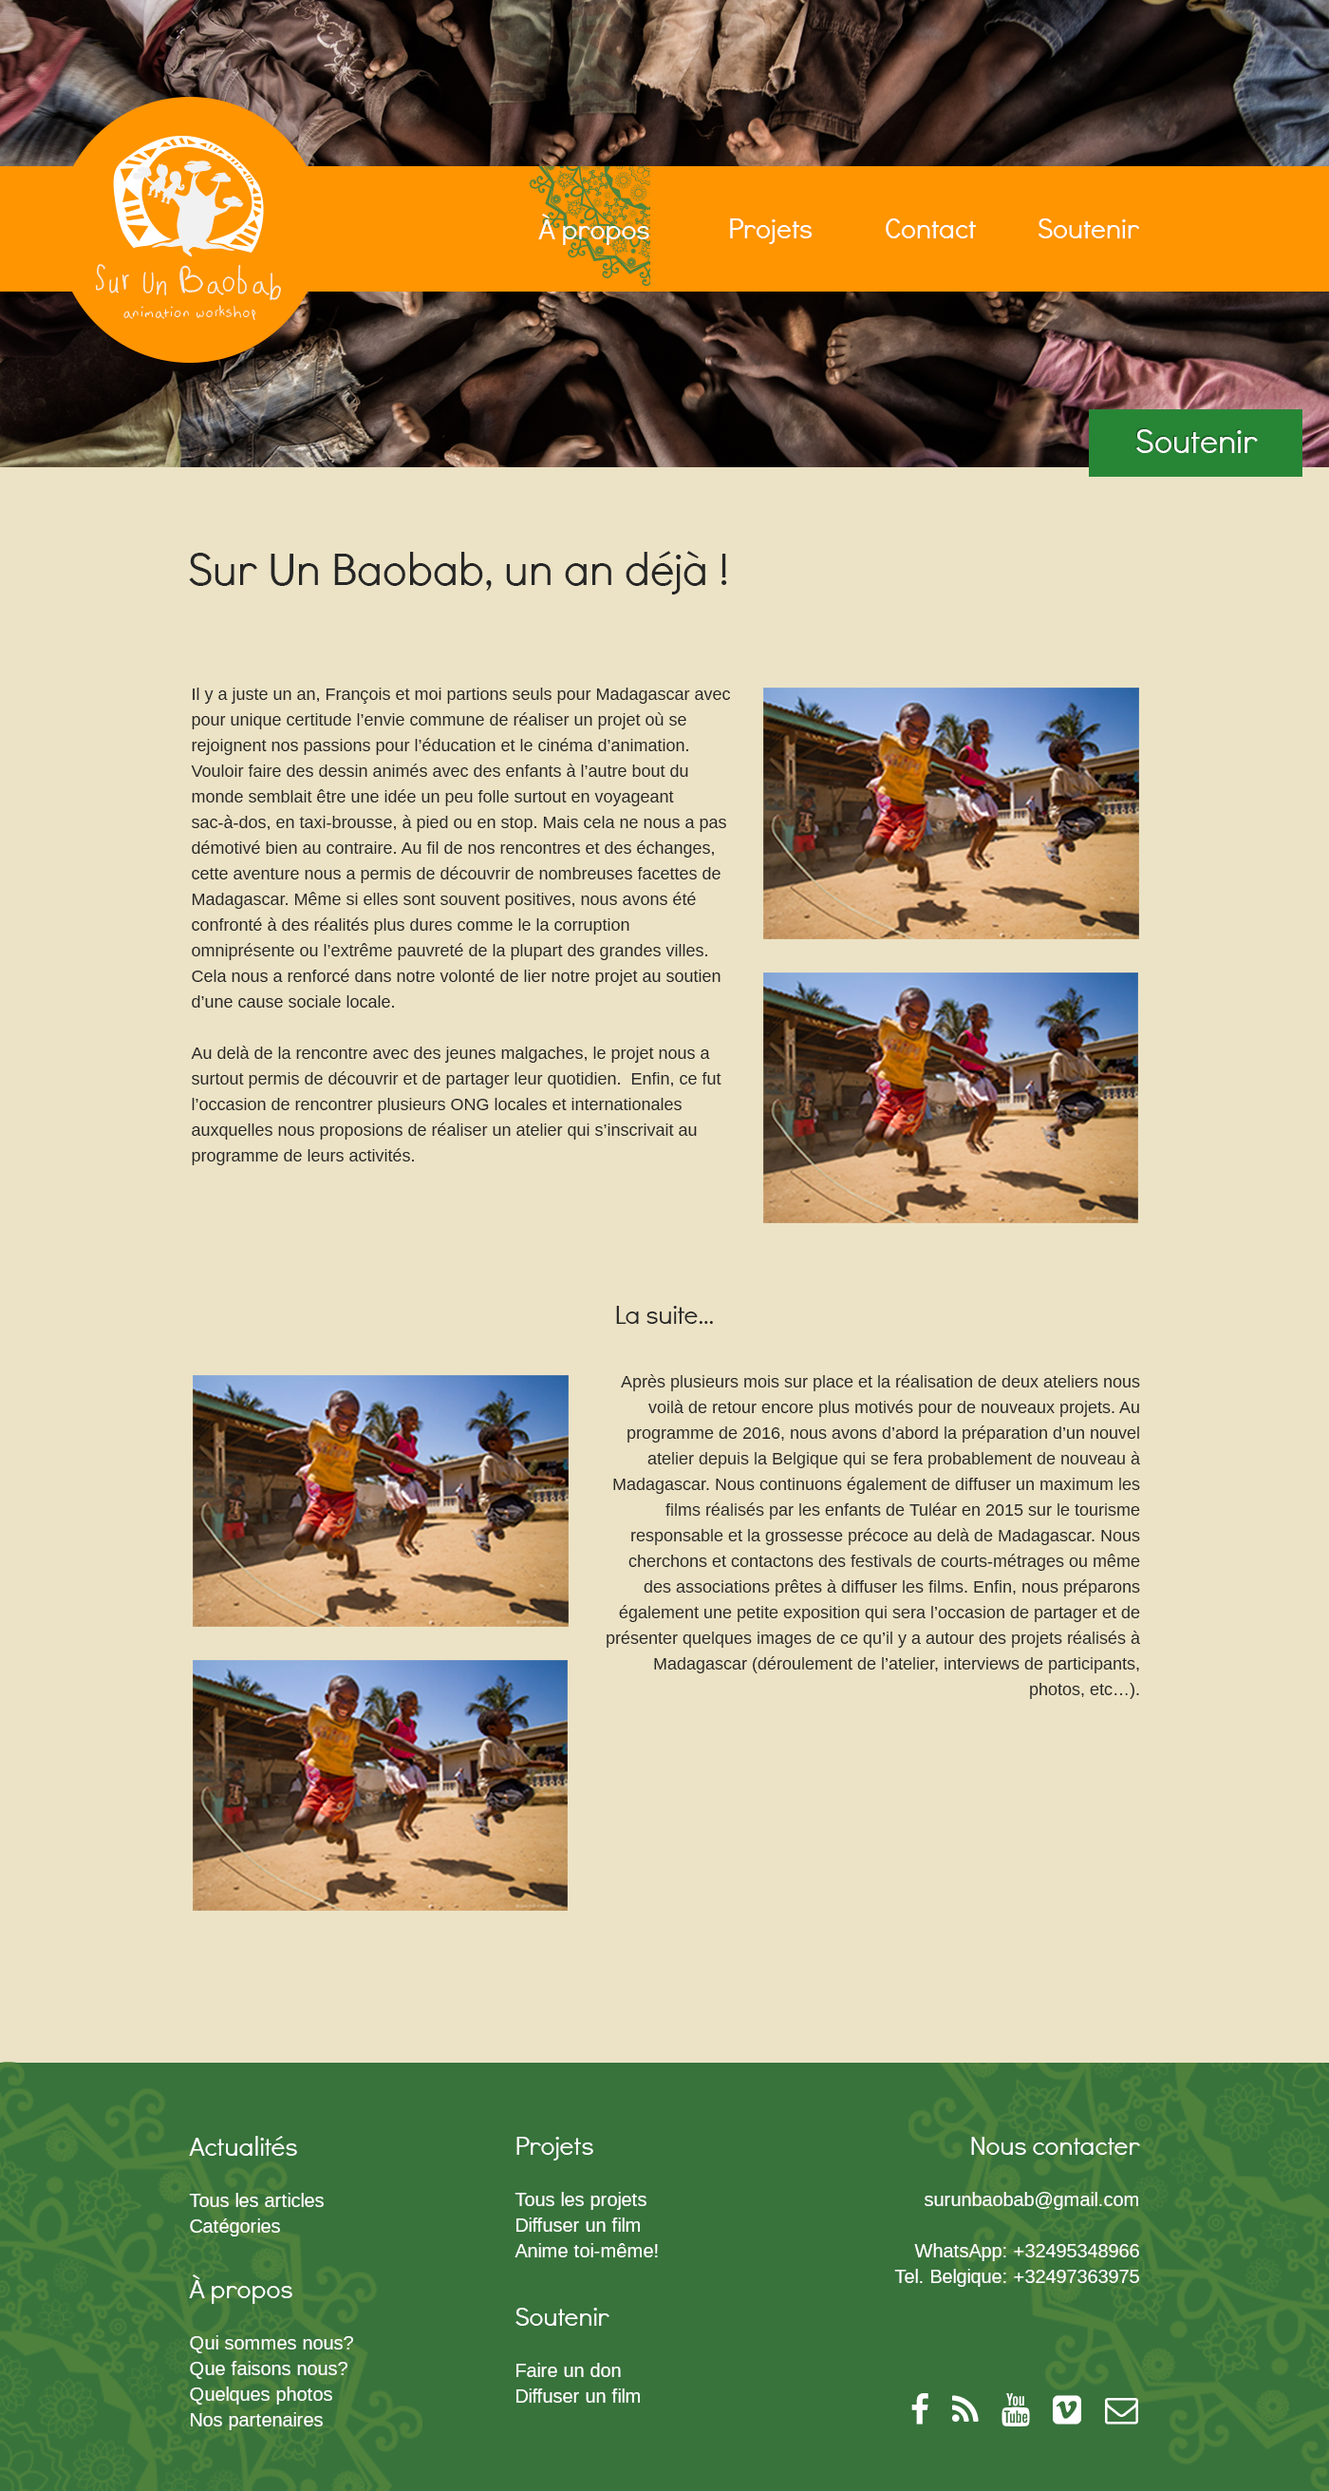
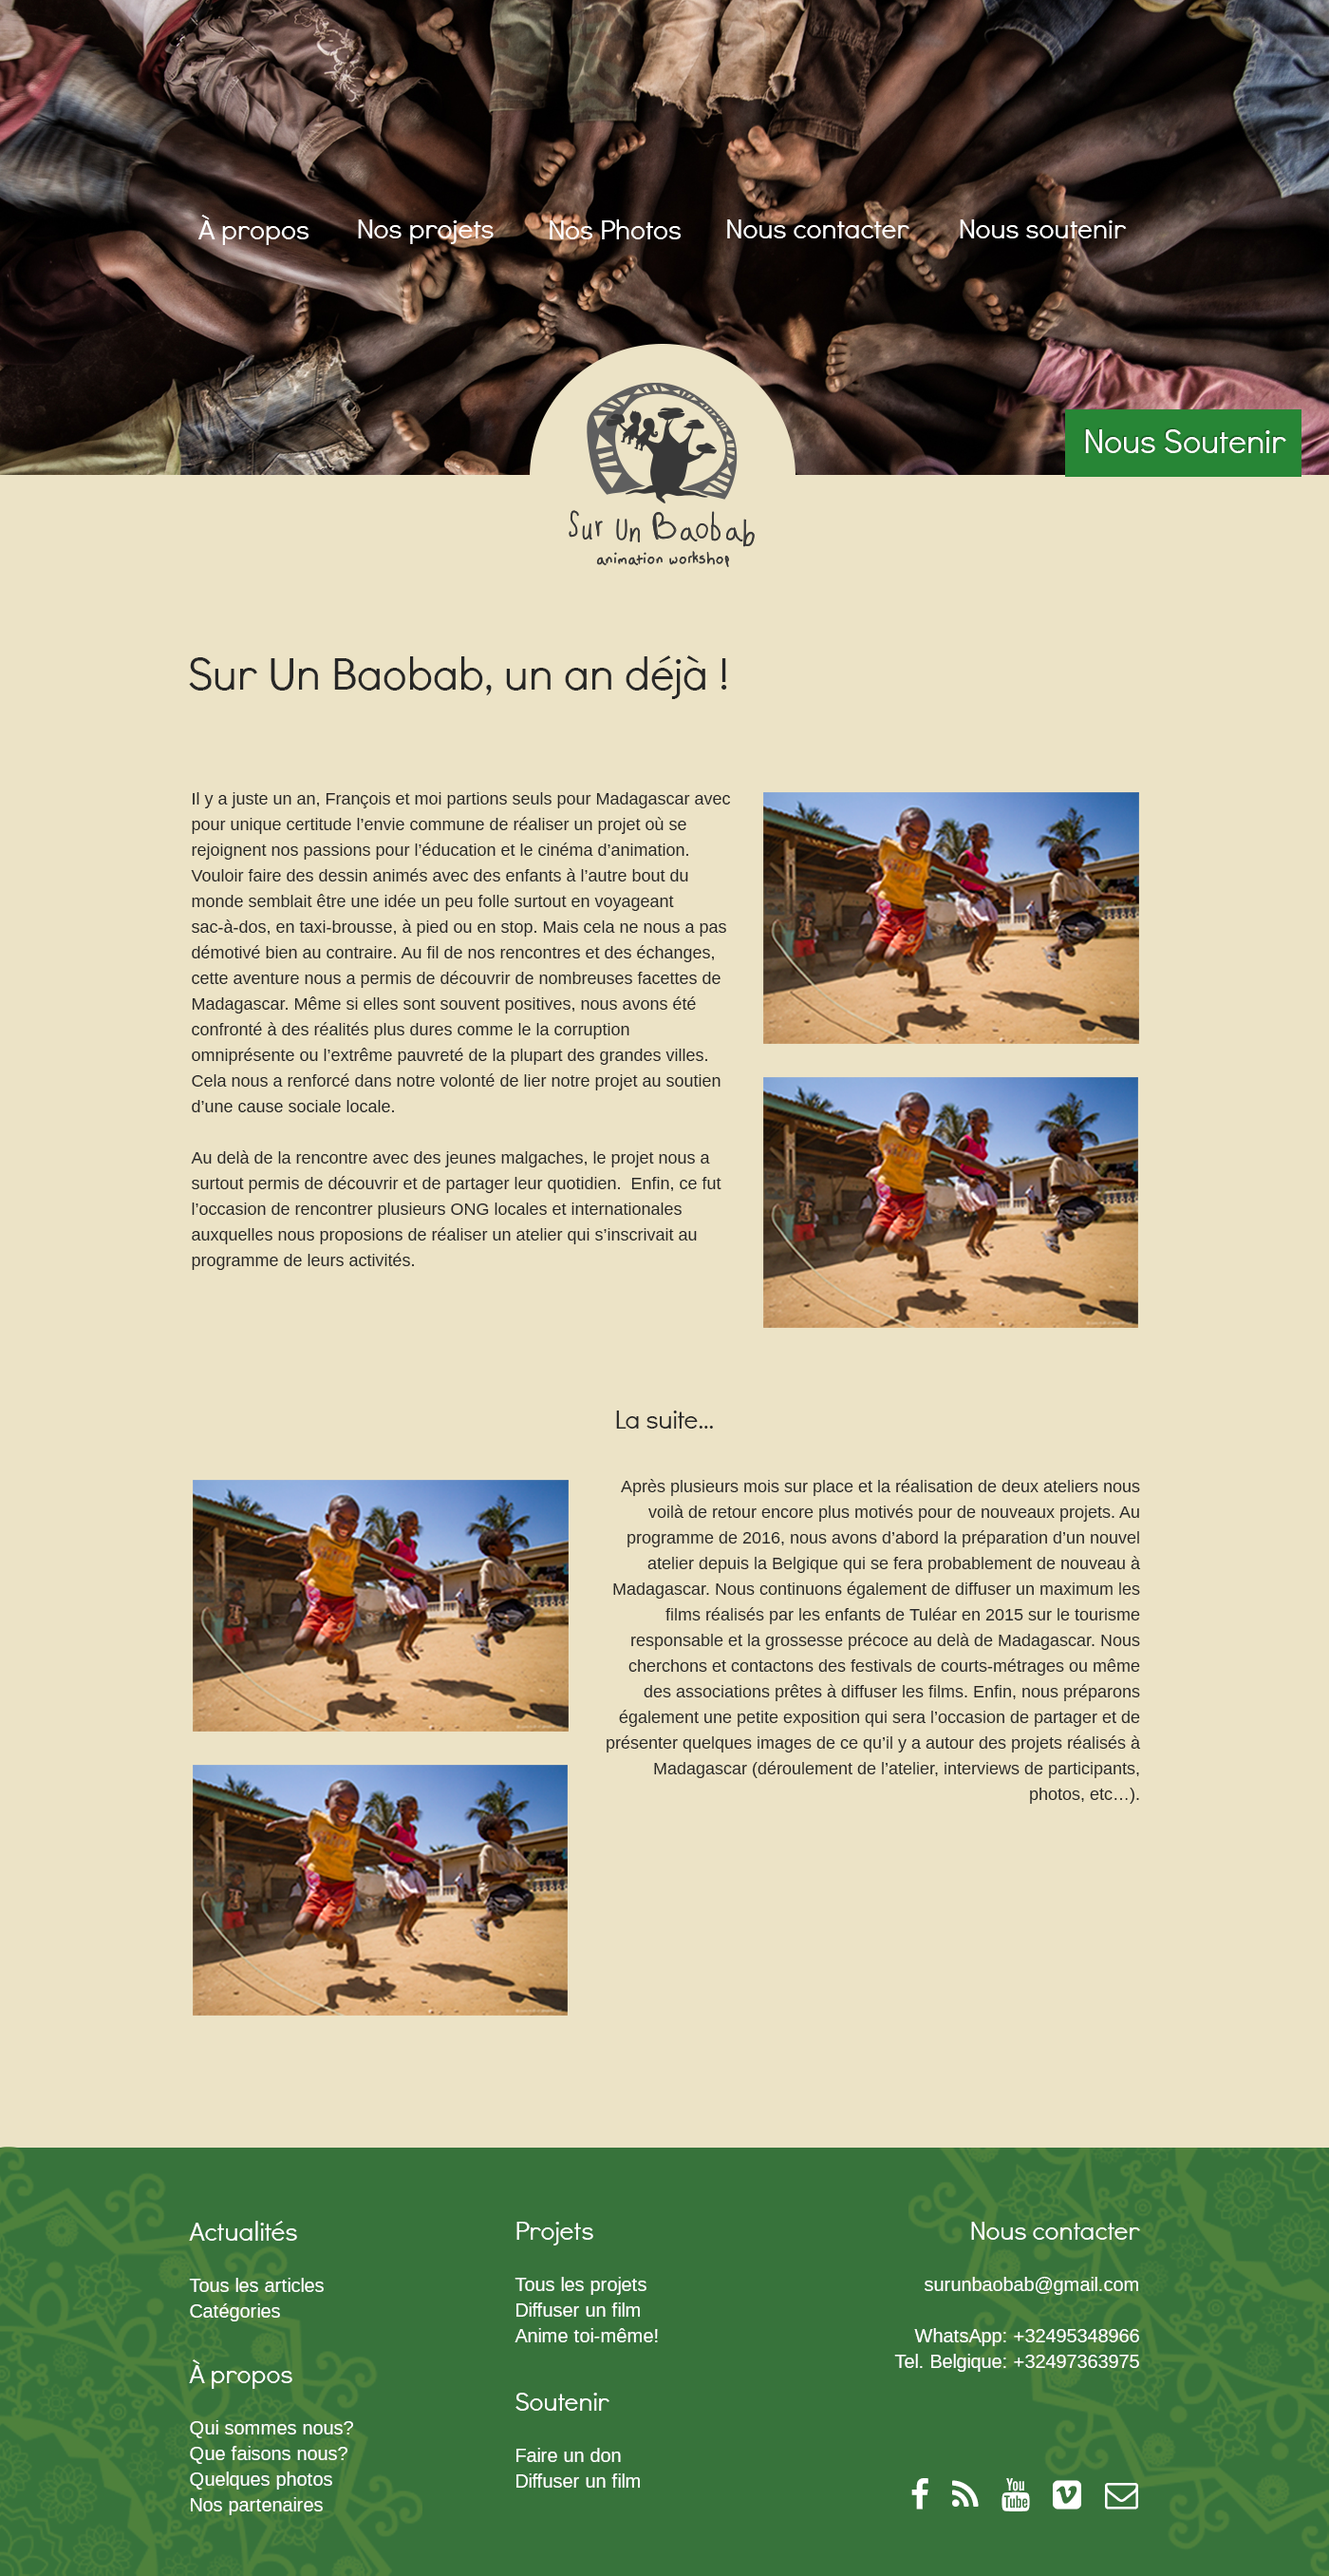
New header in design

diff --git a/site/html/photos.html b/site/html/photos.html
@@ -10,7 +10,7 @@
         <link rel="stylesheet" href="../css/styles.css">
     </head>
     <body>
-        <header class="header header-projects">
+        <header class="header header-contact">
             <h1 class="header__logo">
                 <a href="../index.html" title="retour à la page d'accueil"><img class="header__logo--img" src="../assets/img/logo-head.png" alt="Logo du collectif sur un Baobab"></a>
             </h1>
@@ -25,57 +25,10 @@
             <a class="header__button" href="help.html" title="Vers la page de soutien">Nous soutenir</a>
         </header>
 
-        <section class="content">
-            <h2 class="hidden">Contenu</h2>
-            <div class="cta">
-                <a href="" class="cta__button content__section--button" title="Découvrir nos tutoriels">Anime toi-même</a>
-            </div>
+        <section class="content contact">
+            <h2 class="content__heading contact__heading">Nos photos</h2>
 
-            <section class="projects clearfix">
-                <h3 class="projects__heading content__heading" role="heading" aria-level="2">Nos projets</h3>
 
-                <div class="one-project clearfix">
-                    <section class="one-project__content clearfix">
-                        <h4 class="one-project__heading">Safidi'ni Pela</h4>
-                        <iframe class="one-project__video" width="569" height="382" src="https://www.youtube.com/embed/92IwfppA5SQ" frameborder="0" allowfullscreen>Vidéo Safidin'i Pela</iframe>
-                        <div class="one-project__infos">
-                            <p class="one-project__text">Durée&nbsp;: 3 minutes</p>
-                            <p class="one-project__text">Participants&nbsp;: 9 ados</p>
-                            <p class="one-project__text one-project__text--year">Année&nbsp;: 2009</p>
-                            <a href="project.html" class="one-project__button content__section--button" title="Découvrir le projet Safidin'i Pela">Découvrir le projet</a>
-                        </div>
-                    </section>
-                </div>
-
-                <div class="one-project clearfix">
-                    <section class="one-project__content clearfix">
-                        <h4 class="one-project__heading">Safidi'ni Pela</h4>
-                        <iframe class="one-project__video" width="569" height="382" src="https://www.youtube.com/embed/92IwfppA5SQ" frameborder="0" allowfullscreen>Vidéo Safidin'i Pela</iframe>
-                        <div class="one-project__infos">
-                            <p class="one-project__text">Durée&nbsp;: 3 minutes</p>
-                            <p class="one-project__text">Participants&nbsp;: 9 ados</p>
-                            <p class="one-project__text one-project__text--year">Année&nbsp;: 2009</p>
-                            <a href="project.html" class="one-project__button content__section--button" title="Découvrir le projet Safidin'i Pela">Découvrir le projet</a>
-                        </div>
-                    </section>
-                </div>
-
-                <div class="one-project clearfix">
-                    <section class="one-project__content clearfix">
-                        <h4 class="one-project__heading">Safidi'ni Pela</h4>
-                        <iframe class="one-project__video" width="569" height="382" src="https://www.youtube.com/embed/92IwfppA5SQ" frameborder="0" allowfullscreen>Vidéo Safidin'i Pela</iframe>
-                        <div class="one-project__infos">
-                            <p class="one-project__text">Durée&nbsp;: 3 minutes</p>
-                            <p class="one-project__text">Participants&nbsp;: 9 ados</p>
-                            <p class="one-project__text one-project__text--year">Année&nbsp;: 2009</p>
-                            <a href="project.html" class="one-project__button content__section--button" title="Découvrir le projet Safidin'i Pela">Découvrir le projet</a>
-                        </div>
-                    </section>
-                </div>
-            </section>
-            <div class="cta">
-                <a href="" class="cta__button content__section--button" title="Découvrir nos tutoriels">Anime toi-même</a>
-            </div>
         </section>
 
         <footer class="footer">

diff --git a/site/index.html b/site/index.html
@@ -18,7 +18,7 @@
                 <h2 class="hidden">Navigation</h2>
                 <a class="header__nav--item" href="html/about.html" title="Vers la page à propos">À propos</a>
                 <a class="header__nav--item" href="html/projects.html" title="Vers la page projets">Nos projets</a>
-                <a class="header__nav--item" href="help.html" title="Voir nos photos">Nos photos</a>
+                <a class="header__nav--item" href="html/photos.html" title="Voir nos photos">Nos photos</a>
                 <a class="header__nav--item" href="html/contact.html" title="Vers la page de contact">Nous contacter</a>
                 <a class="header__nav--item" href="html/help.html" title="Vers la page de soutien">Nous soutenir</a>
             </nav>

diff --git a/site/html/about.html b/site/html/about.html
@@ -18,7 +18,7 @@
                 <h2 class="hidden">Navigation</h2>
                 <a class="header__nav--item active" href="about.html" title="Vers la page à propos">À propos</a>
                 <a class="header__nav--item" href="projects.html" title="Vers la page projets">Nos projets</a>
-                <a class="header__nav--item" href="help.html" title="Voir nos photos">Nos photos</a>
+                <a class="header__nav--item" href="photos.html" title="Voir nos photos">Nos photos</a>
                 <a class="header__nav--item" href="contact.html" title="Vers la page de contact">Nous contacter</a>
                 <a class="header__nav--item" href="help.html" title="Vers la page de soutien">Nous soutenir</a>
             </nav>

diff --git a/site/html/contact.html b/site/html/contact.html
@@ -18,7 +18,7 @@
                 <h2 class="hidden">Navigation</h2>
                 <a class="header__nav--item active" href="about.html" title="Vers la page à propos">À propos</a>
                 <a class="header__nav--item" href="projects.html" title="Vers la page projets">Nos projets</a>
-                <a class="header__nav--item" href="help.html" title="Voir nos photos">Nos photos</a>
+                <a class="header__nav--item" href="photos.html" title="Voir nos photos">Nos photos</a>
                 <a class="header__nav--item" href="contact.html" title="Vers la page de contact">Nous contacter</a>
                 <a class="header__nav--item" href="help.html" title="Vers la page de soutien">Nous soutenir</a>
             </nav>

diff --git a/site/html/help.html b/site/html/help.html
@@ -18,7 +18,7 @@
                 <h2 class="hidden">Navigation</h2>
                 <a class="header__nav--item active" href="about.html" title="Vers la page à propos">À propos</a>
                 <a class="header__nav--item" href="projects.html" title="Vers la page projets">Nos projets</a>
-                <a class="header__nav--item" href="help.html" title="Voir nos photos">Nos photos</a>
+                <a class="header__nav--item" href="photos.html" title="Voir nos photos">Nos photos</a>
                 <a class="header__nav--item" href="contact.html" title="Vers la page de contact">Nous contacter</a>
                 <a class="header__nav--item" href="help.html" title="Vers la page de soutien">Nous soutenir</a>
             </nav>

diff --git a/site/html/project.html b/site/html/project.html
@@ -18,7 +18,7 @@
                 <h2 class="hidden">Navigation</h2>
                 <a class="header__nav--item active" href="about.html" title="Vers la page à propos">À propos</a>
                 <a class="header__nav--item" href="projects.html" title="Vers la page projets">Nos projets</a>
-                <a class="header__nav--item" href="help.html" title="Voir nos photos">Nos photos</a>
+                <a class="header__nav--item" href="photos.html" title="Voir nos photos">Nos photos</a>
                 <a class="header__nav--item" href="contact.html" title="Vers la page de contact">Nous contacter</a>
                 <a class="header__nav--item" href="help.html" title="Vers la page de soutien">Nous soutenir</a>
 
